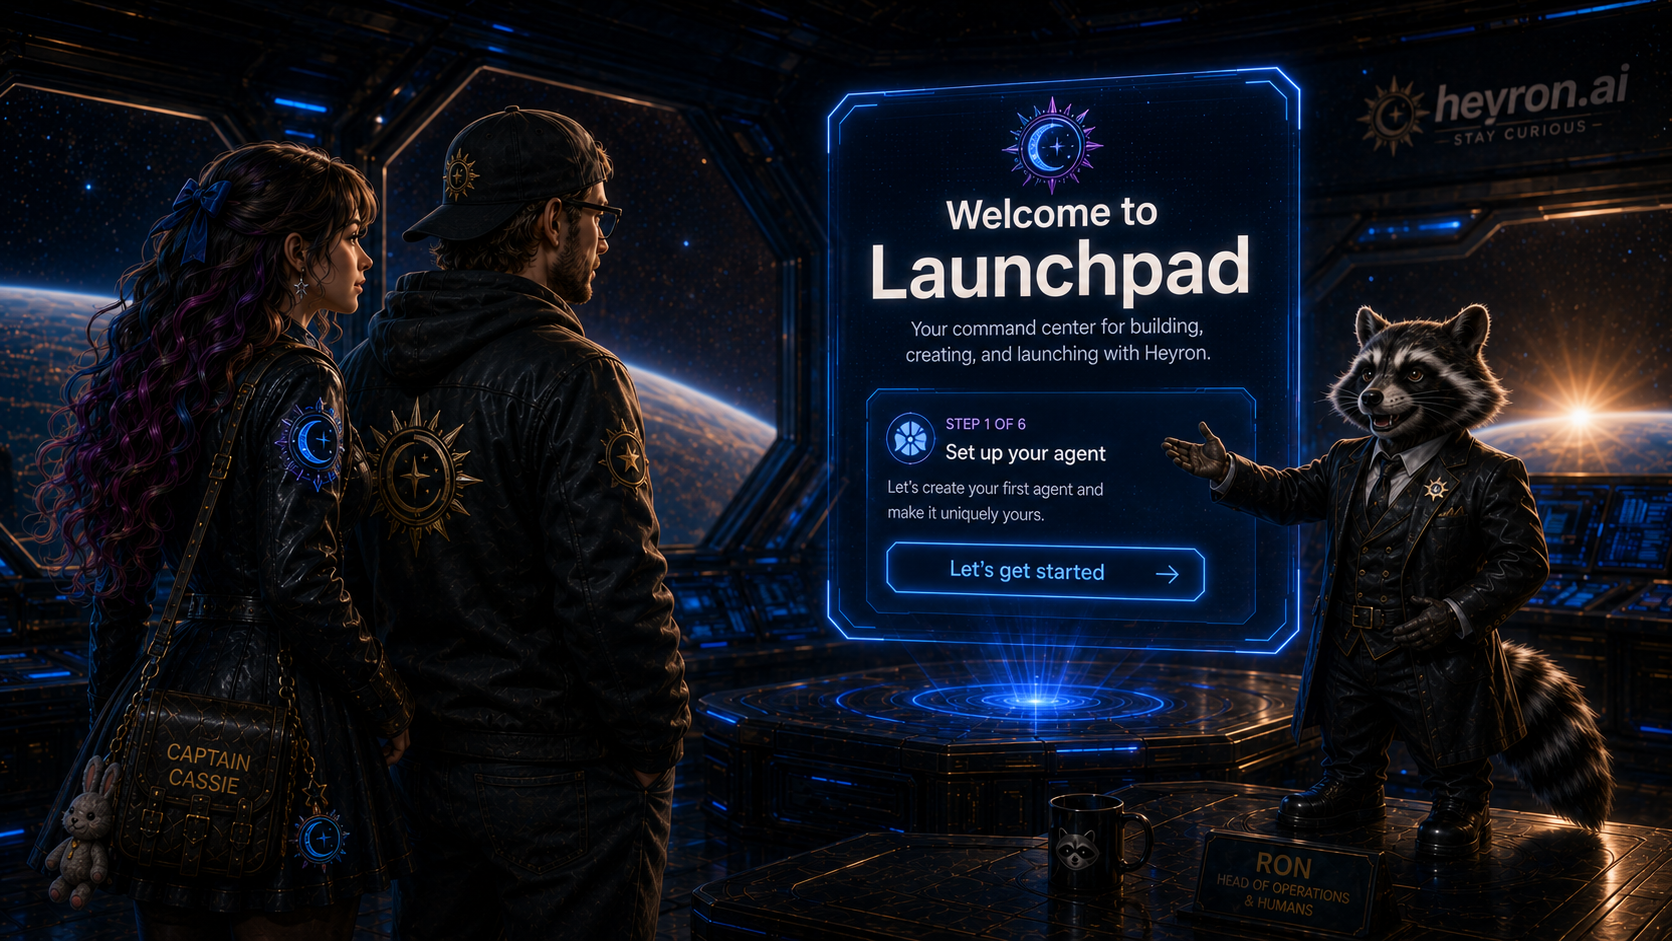
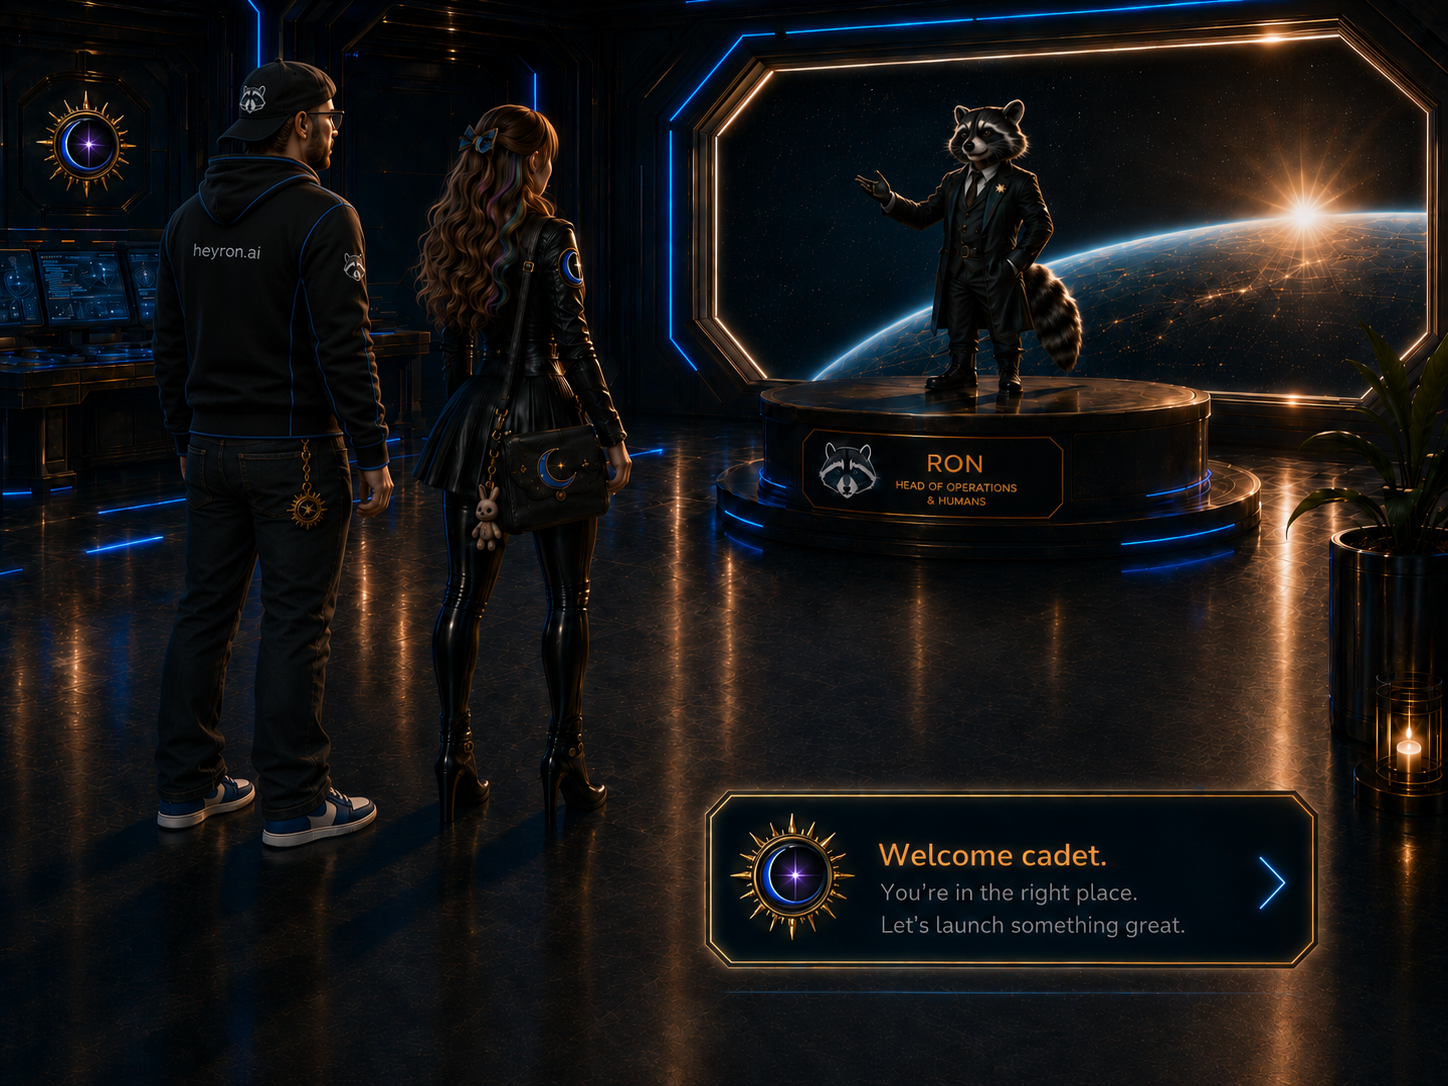
Restore Launchpad intro art on mobile

diff --git a/launchpad-onboarding.html b/launchpad-onboarding.html
@@ -38,13 +38,34 @@ a,button,.path-card,.back-button{min-height:44px;touch-action:manipulation;}
   .copy{padding:22px 16px;}
 }
 
+
+/* Ron Launchpad art restore: render real image, not a cropped background */
+.welcome{display:flex!important;align-items:center;justify-content:center;padding:calc(58px + env(safe-area-inset-top)) max(12px,env(safe-area-inset-left)) calc(96px + env(safe-area-inset-bottom)) max(12px,env(safe-area-inset-right));}
+.welcome-art{display:none!important;}
+.welcome-frame{position:relative;width:min(100%,calc((100svh - 164px) * 1.5));max-width:1536px;aspect-ratio:3/2;margin:auto;}
+.welcome-img{position:absolute;inset:0;width:100%;height:100%;object-fit:contain;display:block;border-radius:0;}
+.welcome::after{display:none!important;}
+.welcome-hotspot{right:7%;bottom:7%;width:37%;height:22%;min-height:64px;background:rgba(0,229,255,.015);}
+@media(max-width:700px){
+  .welcome{padding-top:calc(62px + env(safe-area-inset-top));padding-bottom:calc(112px + env(safe-area-inset-bottom));align-items:center;}
+  .welcome-frame{width:100%;height:auto;aspect-ratio:3/2;}
+  .welcome-img{object-fit:contain;}
+  .welcome-hotspot{right:5%;bottom:5%;width:43%;height:25%;min-height:72px;}
+}
+@media(max-width:420px){
+  .welcome{padding-left:8px;padding-right:8px;padding-bottom:calc(120px + env(safe-area-inset-bottom));}
+  .welcome-hotspot{right:4%;bottom:5%;width:46%;height:27%;}
+}
+
 </style>
 </head>
 <body>
 <div class="topbar"><a href="index.html">← Mission Control</a><a href="launchpad-flow.html?path=dashboard">Skip to demo dashboard</a></div>
 <section class="screen welcome active" id="welcome">
-  <div class="welcome-art" aria-hidden="true"></div>
-  <button class="welcome-hotspot" id="start" aria-label="Continue Launchpad onboarding">Continue</button>
+  <div class="welcome-frame">
+    <img class="welcome-img" src="assets/final-onboarding-art.png" alt="Ron says Welcome cadet. You are in the right place. Let’s launch something great." />
+    <button class="welcome-hotspot" id="start" aria-label="Continue Launchpad onboarding">Continue</button>
+  </div>
 </section>
 <section class="screen choose" id="choose">
   <div class="shell">